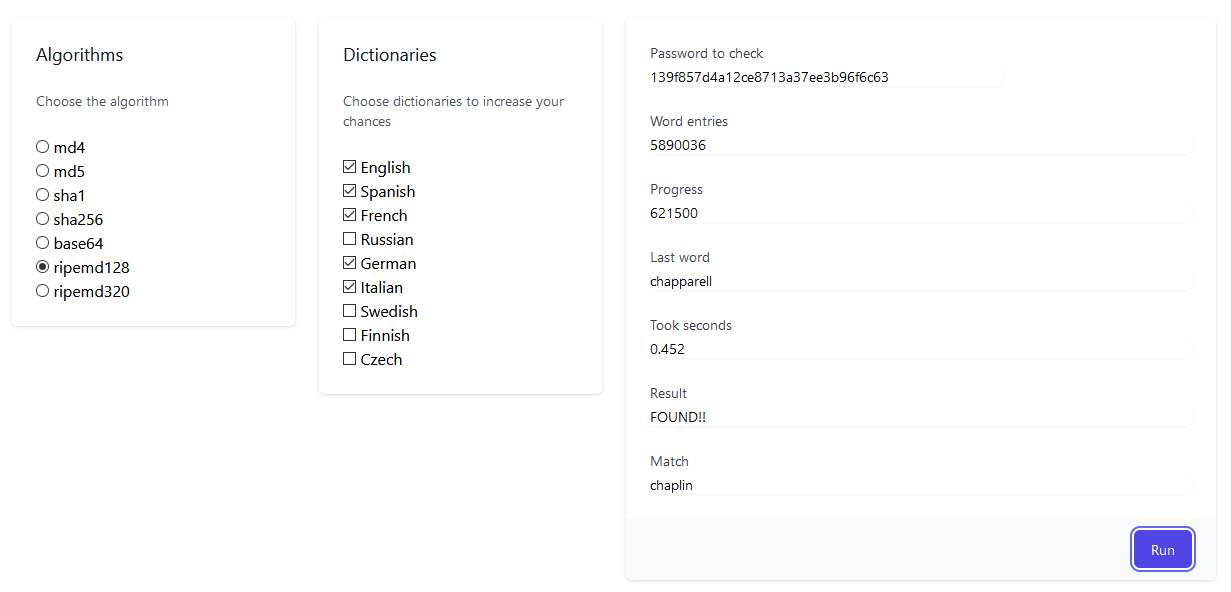
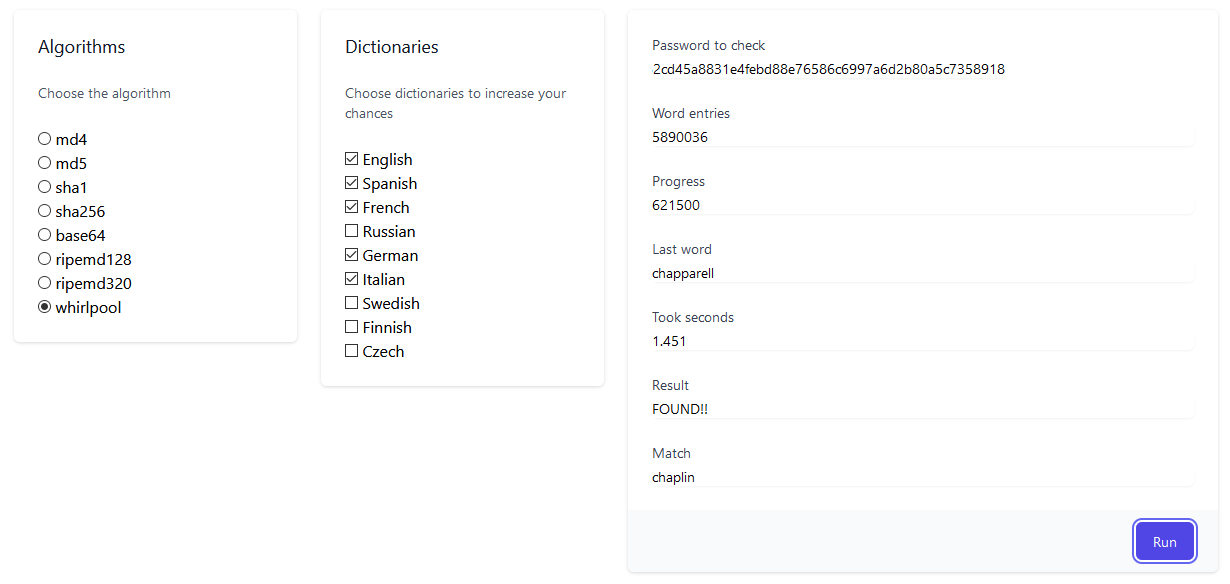
adding whirlpool hash algorithm

diff --git a/src/site/index.html b/src/site/index.html
@@ -39,11 +39,15 @@
                               </li>
                               <li>
                                 <input type="radio" id="rbRipemd128" name="rbAlgorithm" value="6"></input>
-                                <label for="rbRipemd320">ripemd128</label>
+                                <label for="rbRipemd128">ripemd128</label>
                               </li>
                               <li>
                                 <input type="radio" id="rbRipemd320" name="rbAlgorithm" value="7"></input>
                                 <label for="rbRipemd320">ripemd320</label>
+                              </li>
+                              <li>
+                                <input type="radio" id="rbWhirlpool" name="rbAlgorithm" value="8"></input>
+                                <label for="rbWhirlpool">whirlpool</label>
                               </li>
                             </ul>
                           </div>

diff --git a/src/ripper_wasm/src/algorithms.rs b/src/ripper_wasm/src/algorithms.rs
@@ -12,13 +12,14 @@ pub mod implementations {
         Sha1 = 5,
         Ripemd128 = 6,
         Ripemd320 = 7,
+        Whirlpool = 8,
     }
 
     #[wasm_bindgen]
     #[derive(Clone)]
     pub enum SymetricAlgorithm {
-        Des = 6,
-        Des3 = 7,
+        Des = 9,
+        Des3 = 10,
     }
 
     pub trait HashEncoderFactory {
@@ -46,6 +47,7 @@ pub mod implementations {
     struct Des3Wrapper {}
     struct Ripemd128Wrapper {}
     struct Ripemd320Wrapper {}
+    struct WhirlpoolWrapper {}
 
     impl HashEncoderFactory for HashAlgorithm {
         fn get_encoder(&self) -> Option<Box<dyn HashEncoder>> { 
@@ -57,6 +59,8 @@ pub mod implementations {
                 HashAlgorithm::Sha1 => Some(Box::new(Sha1Wrapper { })),
                 HashAlgorithm::Ripemd128 => Some(Box::new(Ripemd128Wrapper { })),
                 HashAlgorithm::Ripemd320 => Some(Box::new(Ripemd320Wrapper { })),
+                HashAlgorithm::Whirlpool => Some(Box::new(WhirlpoolWrapper { })),
+
             }
         }
     }
@@ -160,6 +164,21 @@ pub mod implementations {
         }
     }
 
+    mod whirlpool {
+        use whirlpool::{Whirlpool, Digest};
+        use crate::HashEncoder;
+        use crate::algorithms::implementations::WhirlpoolWrapper;
+
+        impl HashEncoder for WhirlpoolWrapper {
+            fn encode(&self, input: &String) -> String {
+                let mut hasher = Whirlpool::new();
+                hasher.update(input);
+                let result = hasher.finalize();
+                format!("{:x}", result)
+            }
+        }
+    }
+
     impl SymetricEncoder for DesWrapper {        
         fn encode(&self, _key: &String, _input: &String) -> String { 
             todo!() 
@@ -227,6 +246,7 @@ mod tests {
         hash_base64: HashAlgorithm::Base64,
         hash_ripemd128: HashAlgorithm::Ripemd128,
         hash_ripemd320: HashAlgorithm::Ripemd320,
+        hash_whirlpool: HashAlgorithm::Whirlpool,
     }
 
     symetric_encoder_tests! {
@@ -242,5 +262,6 @@ mod tests {
         base64: (HashAlgorithm::Base64, "SGVsbG8gd29ybGQh"),
         ripemd128: (HashAlgorithm::Ripemd128, "d917d92bc5591a0915f70acebbc2b126"),
[2 lines of base64/hex data omitted]
     }
 }

diff --git a/src/ripper_wasm/src/lib.rs b/src/ripper_wasm/src/lib.rs
@@ -9,6 +9,7 @@ extern crate md4;
 extern crate sha1;
 extern crate ripemd320;
 extern crate ripemd128;
+extern crate whirlpool;
 
 mod algorithms;
 mod internals;
@@ -58,6 +59,7 @@ mod tests {
         match_sha1: ("3E047347D97C14169F3EA769B1F28CAF9D6A8E5D", HashAlgorithm::Sha1),
         match_ripemd128: ("1a147e58b2a2c6e3dedc94ac0eeee67b", HashAlgorithm::Ripemd128),
[2 lines of base64/hex data omitted]
     }
 
     #[wasm_bindgen_test]

diff --git a/README.md b/README.md
@@ -17,6 +17,7 @@ Please, refer to each crate documentation and check its licensing.
 | `base64`    | Base64   | [![crates.io](https://img.shields.io/crates/v/base64.svg)](https://crates.io/crates/base64)|
 |`ripemd128`  | RIPEMD128 | [![crates.io](https://img.shields.io/crates/v/ripemd128.svg)](https://crates.io/crates/ripemd128)|
 |`ripemd320`  | RIPEMD320 | [![crates.io](https://img.shields.io/crates/v/ripemd320.svg)](https://crates.io/crates/ripemd320)|
+|`whirlpool`  | WHIRLPOOL | [![crates.io](https://img.shields.io/crates/v/whirlpool.svg)](https://crates.io/crates/whirlpool)|
 
 <br/>
 
